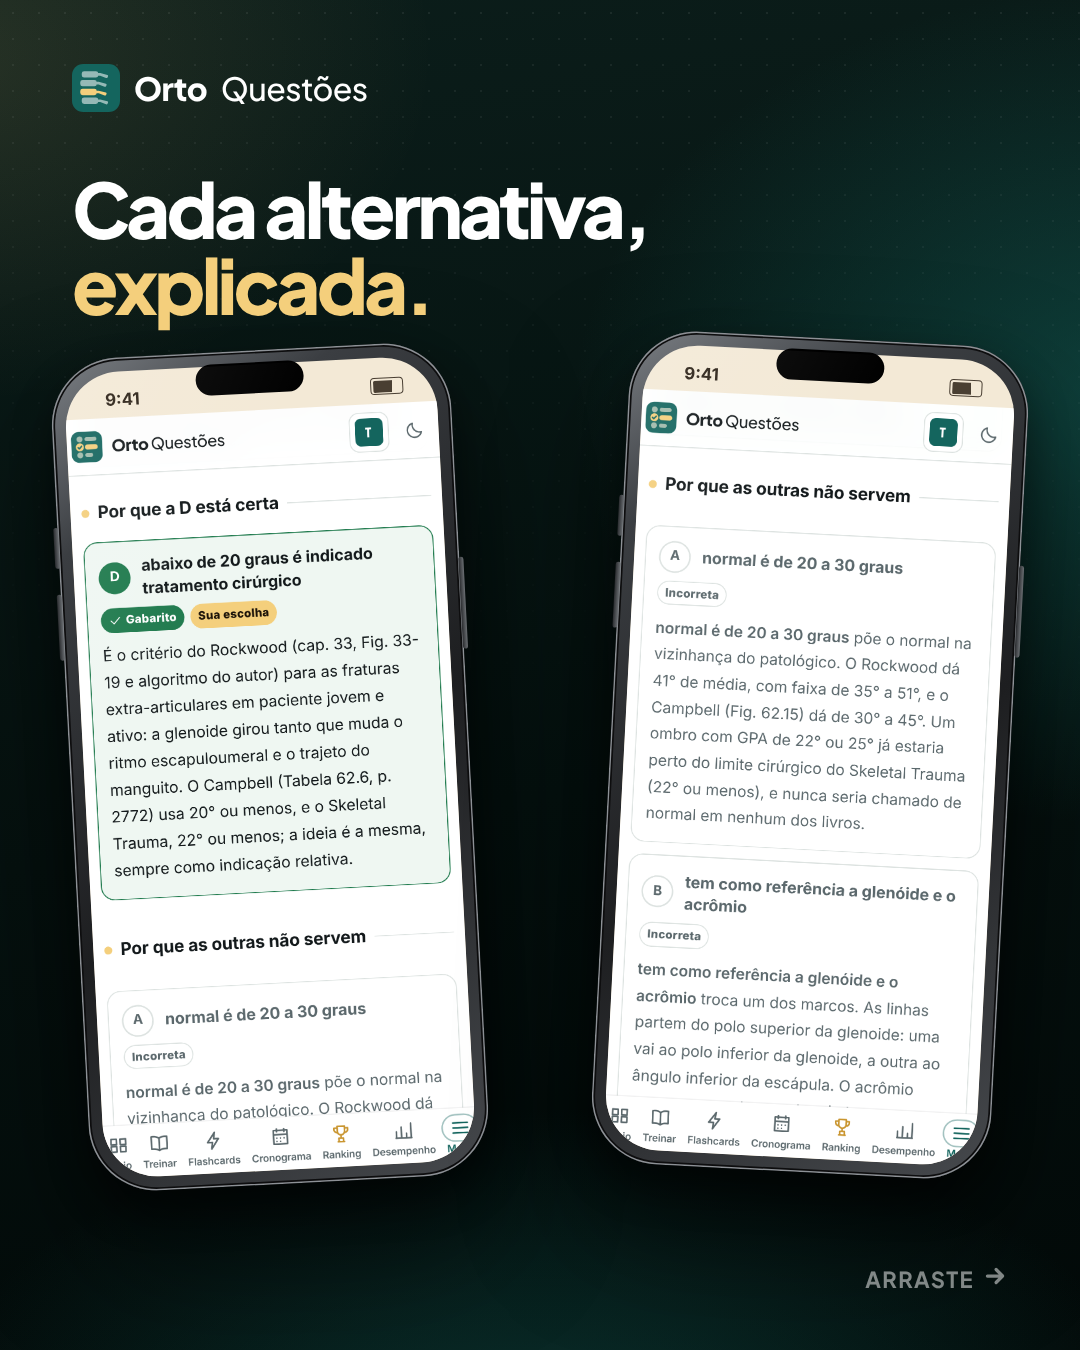
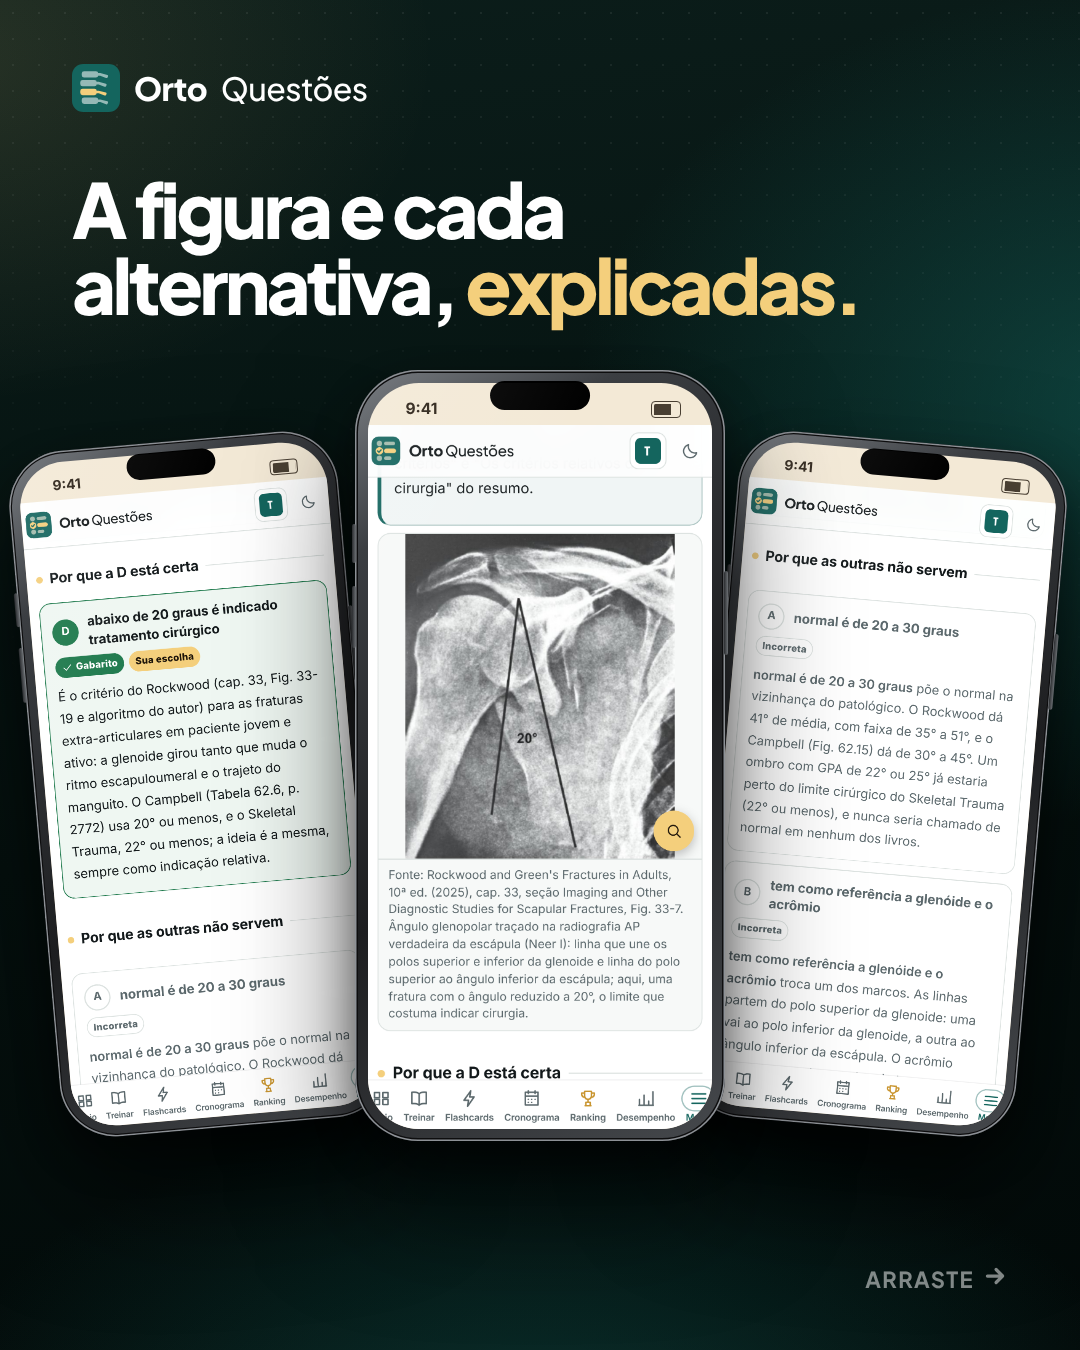
Glenopolar: a figura do Rockwood entre as alternativas (story 2 e feed 3)
Claude-Session: https://claude.ai/code/session_012BctADjoUcGehZQkHcBNbU

diff --git a/marketing/instagram/posts/2026-11-13-glenopolar/post.html b/marketing/instagram/posts/2026-11-13-glenopolar/post.html
@@ -242,11 +242,12 @@ body.claro .r.conf { color: #8a5f12; background: rgba(244,207,124,.3); } body.cl
 <section id="story-2">
   <div class="topo"><div class="marca" data-marca><b>Orto</b><span>Questões</span></div></div>
   <div class="titulo" style="top:330px">
-    <h1>Cada alternativa, <em>explicada.</em></h1>
-    <p class="sub">Por que a certa está certa e por que cada uma das outras não serve.</p>
+    <h1>A figura e cada alternativa, <em>explicadas.</em></h1>
+    <p class="sub">A figura do livro com a fonte, por que a certa está certa e por que cada uma das outras não serve.</p>
   </div>
-  <div class="iphone" data-tela="cel-certa" style="--w:410px; left:76px; top:668px; transform: rotate(-3deg)"></div>
-  <div class="iphone" data-tela="cel-outras" style="--w:410px; left:594px; top:648px; transform: rotate(3deg)"></div>
+  <div class="iphone" data-tela="cel-certa" style="--w:350px; left:34px; top:720px; transform: rotate(-5deg)"></div>
+  <div class="iphone" data-tela="cel-outras" style="--w:350px; left:690px; top:720px; transform: rotate(5deg)"></div>
+  <div class="iphone" data-tela="cel-figura" style="--w:390px; left:345px; top:640px; z-index:5"></div>
 </section>
 
 <section id="story-3">
@@ -284,9 +285,10 @@ body.claro .r.conf { color: #8a5f12; background: rgba(244,207,124,.3); } body.cl
 
 <section id="feed-3" class="feed">
   <div class="topo"><div class="marca" data-marca><b>Orto</b><span>Questões</span></div></div>
-  <div class="titulo" style="top:170px"><h1>Cada alternativa, <em>explicada.</em></h1></div>
-  <div class="iphone" data-tela="cel-certa" style="--w:400px; left:70px; top:350px; transform: rotate(-3deg)"></div>
-  <div class="iphone" data-tela="cel-outras" style="--w:400px; left:610px; top:338px; transform: rotate(3deg)"></div>
+  <div class="titulo" style="top:170px"><h1>A figura e cada alternativa, <em>explicadas.</em></h1></div>
+  <div class="iphone" data-tela="cel-certa" style="--w:330px; left:34px; top:440px; transform: rotate(-5deg)"></div>
+  <div class="iphone" data-tela="cel-outras" style="--w:330px; left:712px; top:440px; transform: rotate(5deg)"></div>
+  <div class="iphone" data-tela="cel-figura" style="--w:370px; left:355px; top:370px; z-index:5"></div>
   <div class="arraste">Arraste <i data-icone="seta"></i></div>
 </section>
 

diff --git a/marketing/instagram/posts/2026-11-13-glenopolar/LEGENDA.md b/marketing/instagram/posts/2026-11-13-glenopolar/LEGENDA.md
@@ -4,7 +4,7 @@ Refeito a pedido do Tales: é propaganda do comentário, não aula. Mostra o que
 no maior volume possível; o enunciado aparece uma vez; nenhuma etiqueta. Modelo padrão (verde).
 
 - Story 1 e feed 1: a questão no notebook (o enunciado aparece uma vez).
-- Story 2 e feed 3: as alternativas no celular (por que a certa está certa e por que as outras não servem).
+- Story 2 e feed 3: três iPhones: a figura do Rockwood (Fig. 33-7, com a fonte) no meio, a certa e as outras alternativas dos lados.
 - Feed 2: o texto denso no notebook (o que o ângulo mede, como desenhar, o que acontece quando fecha).
 - Story 3 e feed 4: o notebook com o texto mais denso e a tabela livro a livro (Rockwood, Campbell, Skeletal Trauma), e "Treine grátis".
 
